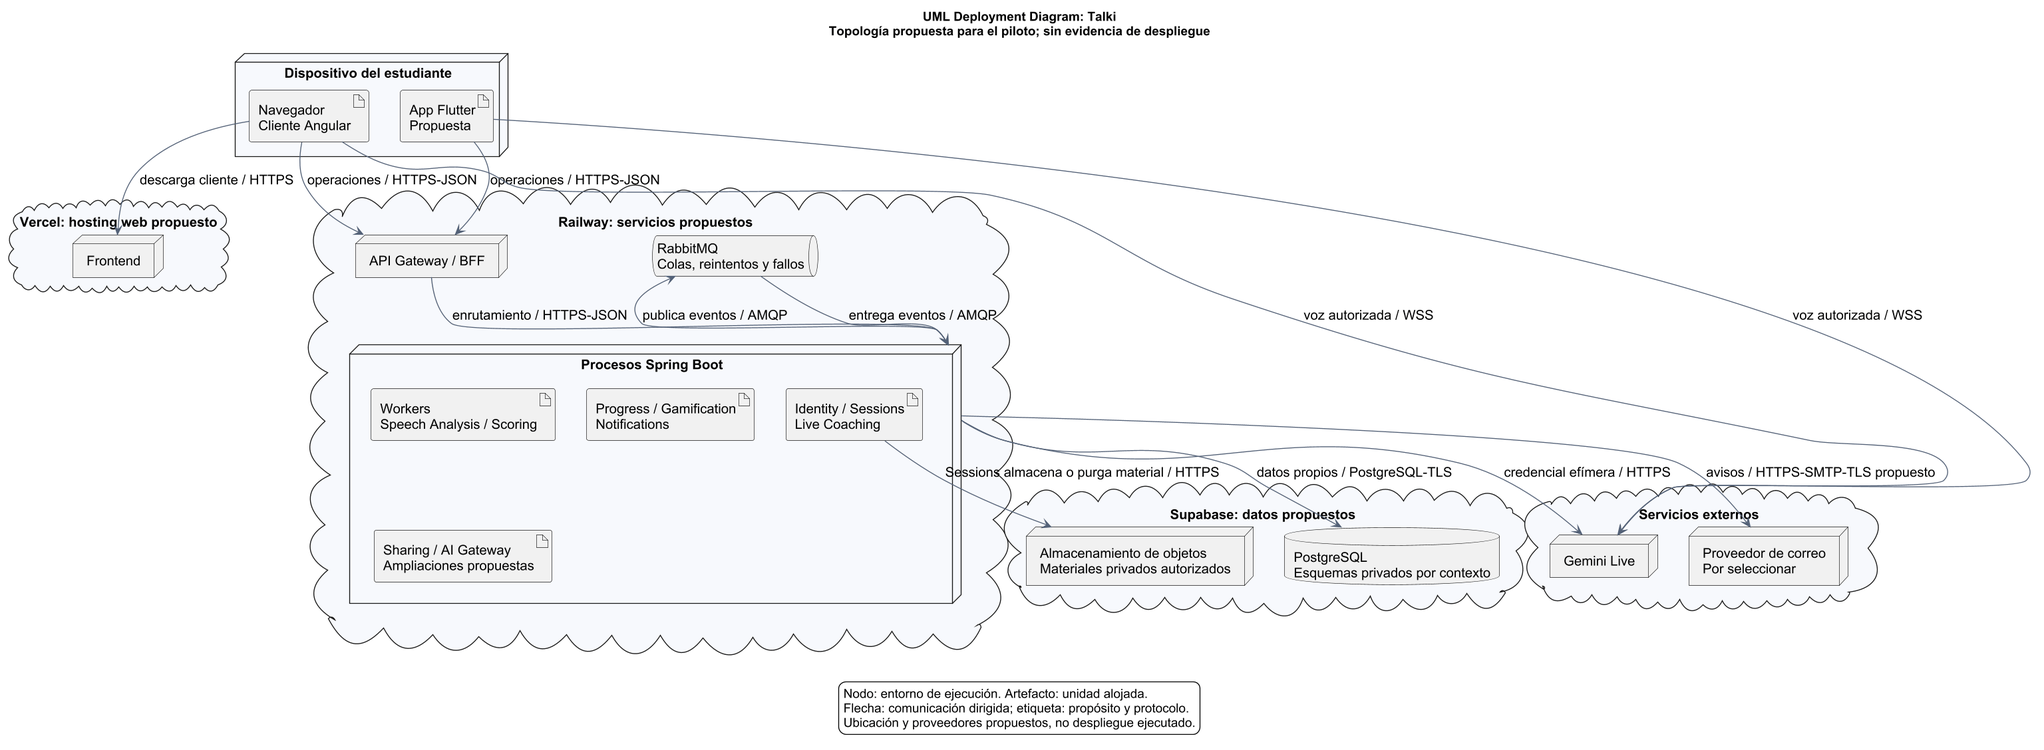
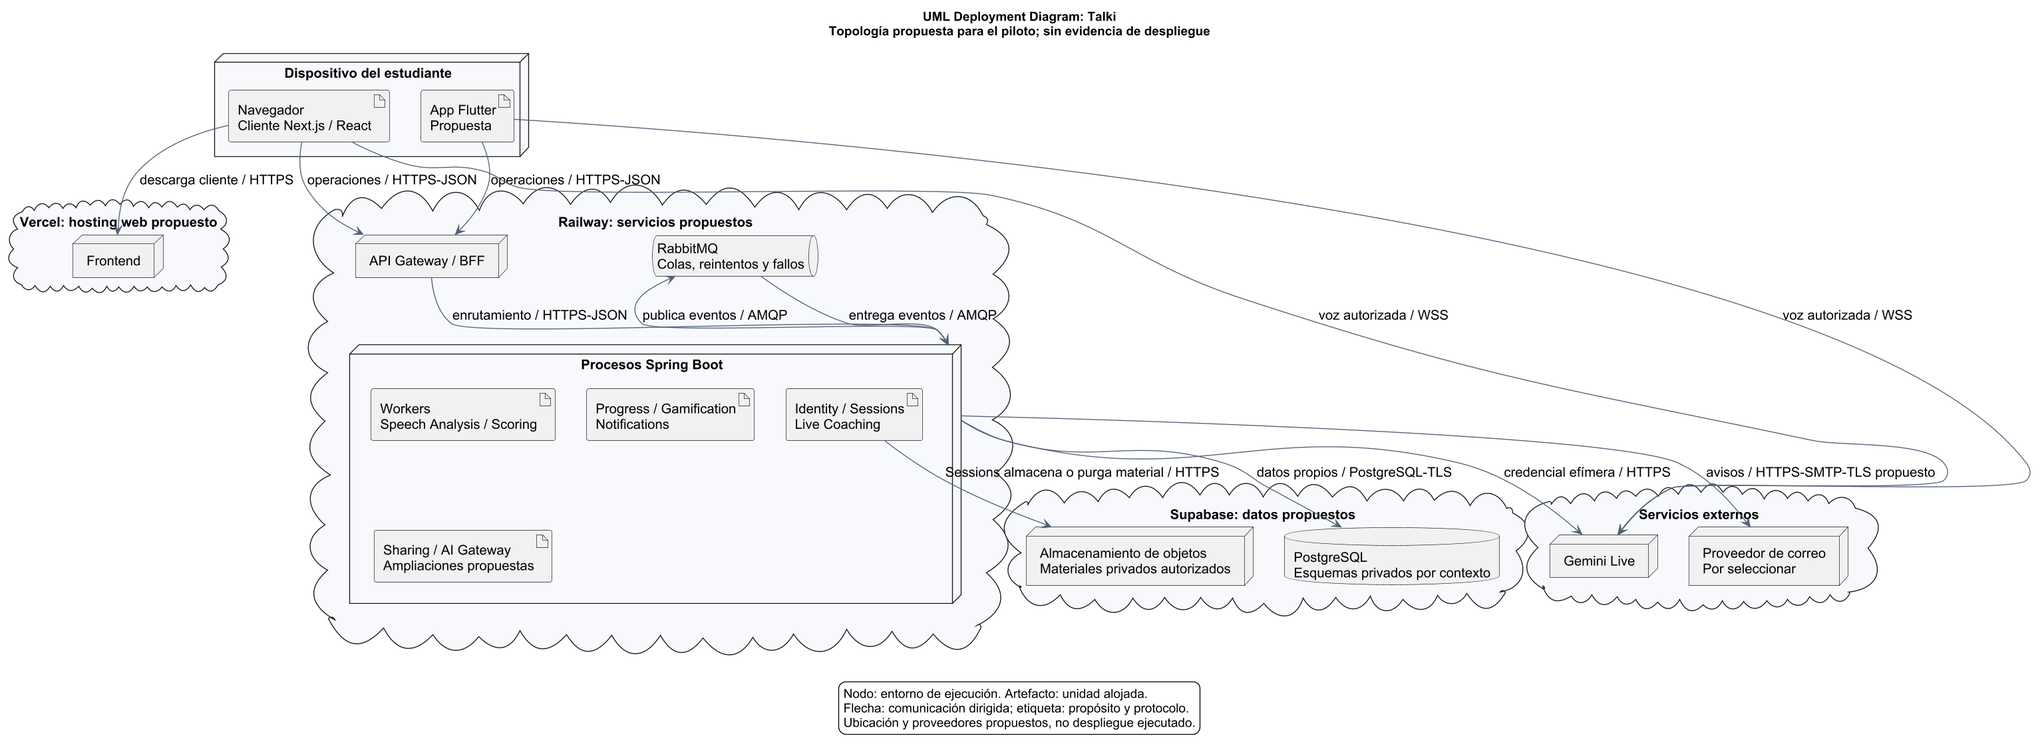
docs(tb2): adopt Next React stack and retire migration plan

diff --git a/docs/tb2/sprint-1-plan.md b/docs/tb2/sprint-1-plan.md
@@ -37,7 +37,7 @@ La reunión de planning se realizó el **28 de octubre de 2026, de 20:00 a 21:00
 | progress-service | Resumen del progreso a partir de evaluaciones. | SB1-05. |
 | gamification-service | Rachas y logros según sesiones válidas. | SB1-05. |
 | notification-service | Consumo de eventos de evaluación/logro y aviso disponible. | SB1-05. No se presume un canal de correo configurado. |
-| Cliente web, landing y BFF | Pantallas, sesión del navegador y consumo de APIs. | SB1-02, SB1-03 y SB1-06; G-WEB si se requiere adecuación. |
+| Cliente web, landing y BFF | Pantallas, sesión del navegador y consumo de APIs. | SB1-02, SB1-03 y SB1-06 sobre Next.js/React. |
 | RabbitMQ, persistencia y ambiente | Integración entre servicios y ejecución reproducible/desplegada. | SB1-01 y SB1-07. |
 
 **Reparto de capacidad confirmado por el Team Leader el 30/10/2026.** Un coordinador por PBI organiza el cierre; las tareas de 7.2.1.2 indican quién hace cada parte. Las horas de apoyo se contabilizan a su responsable, no se suman de nuevo al coordinador.
@@ -62,7 +62,7 @@ Los SP de cada PBI usan la escala 1, 2, 3, 5 y 8 para estimar el **trabajo que q
 | 04/11–06/11 | Análisis/feedback, cliente integrado, progreso, logros y aceptación. | Reporte trazable y pruebas del recorrido; integración por eventos comprobada. |
 | 07/11–08/11 | Despliegue, validación con ambos segmentos, matriz de evidencias, review y retrospectiva. | URLs y capturas actuales; registros reales de validación; balance de terminado/pendiente. |
 
-La coordinación propuesta comprende seis sincronizaciones de diez minutos y una sesión de review/retrospectiva de sesenta minutos por integrante: dos horas en total. Las diez horas de reserva del equipo absorben incidencias pequeñas; no cubren una migración completa de tecnología o una ampliación de alcance de decenas de horas.
+La coordinación propuesta comprende seis sincronizaciones de diez minutos y una sesión de review/retrospectiva de sesenta minutos por integrante: dos horas en total. Las diez horas de reserva del equipo absorben incidencias pequeñas; no cubren ampliaciones de alcance de decenas de horas.
 
 **Definition of Ready.** Antes de iniciar una tarea deben existir su criterio de aceptación, responsable, dependencia resuelta, repositorio/commit de base e insumos de prueba. Si requiere credenciales, presupuesto cloud, acceso al proveedor o participantes, se registra el bloqueo concreto. Nunca se incluye un secreto en el tablero o en la captura.
 
@@ -97,7 +97,7 @@ El backlog sustituye las diez tareas genéricas iniciales por **ocho PBIs y 24 t
 | SB1-03 — Integración pendiente | Crear sesión 201, modos 200; finalizar DRAFT dio 500 y token sin clave dio 503 esperado. | Cerrar estados/consentimiento, voz configurada, correlación y cierre sin duplicados. |
 | SB1-04 — Base disponible | 11 unitarias de detección de muletillas y 33 de scoring aprobadas; contratos de eventos presentes. | Comprobar recorrido asíncrono, consulta de feedback, errores, duplicados y aceptación BDD. |
 | SB1-05 — Base disponible | 9 unitarias de progreso, 13 de gamificación y 7 de notificaciones; consultas iniciales de progreso/racha 200. | Demostrar actualización real por evento válido y que el duplicado no repite efectos. |
-| SB1-06 — Cliente/prototipo disponibles | Compilación Next.js aprobada; galería y prototipo públicos dieron 200. | Integrar el recorrido real, ajustar landing/errores y resolver conformidad del framework. |
+| SB1-06 — Cliente/prototipo disponibles | Compilación Next.js aprobada; galería y prototipo públicos dieron 200. | Integrar el recorrido real en Next.js/React y ajustar landing, errores y evidencias. |
 | SB1-07 — Bloqueado por despliegue | En la comprobación del 30/10, frontend histórico 402 y 16 rutas Railway 404. | Acceso a recursos, perfiles/persistencia, publicación y verificación del ambiente efectivo. |
 | SB1-08 — Protocolo listo | Guion de validación y registro de seis participantes preparado; sin sesiones o resultados acreditados. | Reclutar/aplicar a ambos segmentos y registrar observaciones y heurísticas reales. |
 
@@ -106,7 +106,7 @@ El backlog sustituye las diez tareas genéricas iniciales por **ocho PBIs y 24 t
 | Tarea | Responsable confirmado | Horas | Dependencias | Criterio de aceptación | Estado |
 | --- | --- | ---: | --- | --- | --- |
 | **SB1-01-A** Cerrar el runbook de arranque y configuración | Alejandro | 3 | Ninguna | Un clon limpio puede compilar con JDK 17, iniciar un único RabbitMQ y los ocho servicios; el runbook separa H2 local de persistencia pública y no expone secretos. | Por hacer |
-| **SB1-01-B** Registrar decisiones de tecnología y alcance | Eduardo | 2 | Ninguna | Matriz de enunciado frente al stack real; decisión Angular/Vue o autorización adjunta. Si sigue abierta, se registra bloqueo de conformidad y no se renombra Next.js. | Por hacer |
+| **SB1-01-B** Registrar decisiones de tecnología y alcance | Eduardo | 2 | Ninguna | Registrar Next.js/React/TypeScript, Tailwind y shadcn como stack elegido; relacionar versiones y BFF con los archivos del cliente. Conservar la fuente académica original y la decisión del equipo sin atribuir autorización docente no registrada. | Por hacer |
 | **SB1-01-C** Versionar contrato y evidencia del entorno | Kevin | 3 | SB1-01-A | URLs/puertos, commit base, diagrama de despliegue ejecutable y ocho contratos OpenAPI coherentes; enlaces de las evidencias en el informe. | Por hacer |
 
 **SB1-02 — Identidad, acceso y aislamiento de sesiones.** Servicios: identity-service, session-service, BFF del cliente.
@@ -146,7 +146,7 @@ El backlog sustituye las diez tareas genéricas iniciales por **ocho PBIs y 24 t
 | Tarea | Responsable confirmado | Horas | Dependencias | Criterio de aceptación | Estado |
 | --- | --- | ---: | --- | --- | --- |
 | **SB1-06-A** Actualizar landing y estados vacíos | Eduardo | 4 | SB1-01-B | Beneficios y planes describen disponibilidad real; sin testimonios autorizados se muestra estado vacío. Contacto y videos identifican qué funciona y qué está pendiente. | Por hacer |
-| **SB1-06-B** Integrar las pantallas con servicios reales | Eduardo | 4 | SB1-02-C, SB1-03-C, SB1-04-B | Acceso, preparación, práctica, reporte e historial consumen la base elegida; simulaciones y capturas de referencia están diferenciadas. La migración completa de framework es una rama condicional estimada aparte. | Por hacer |
+| **SB1-06-B** Integrar las pantallas con servicios reales | Eduardo | 4 | SB1-02-C, SB1-03-C, SB1-04-B | Acceso, preparación, práctica, reporte e historial consumen la base elegida; simulaciones y capturas de referencia están diferenciadas. Se reutiliza el cliente Next.js/React y se comprueba su integración; no se incluye una migración de framework. | Por hacer |
 | **SB1-06-C** Comprobar usabilidad técnica web y responsive | Eduardo | 2 | SB1-06-B | Recorrido con teclado, foco, etiquetas, errores y vista móvil comprobado; responsive no se presenta como app nativa. Capturas corresponden al commit probado. | Por hacer |
 
 **SB1-07 — Despliegue y evidencias de la primera versión.** Servicios: Ocho servicios backend, RabbitMQ, Persistencia, Cliente web.
@@ -171,19 +171,18 @@ El backlog sustituye las diez tareas genéricas iniciales por **ocho PBIs y 24 t
 
 ![Tablero de Sprint 1 con PBIs, responsables y horas](../../assets/planning/sprint-1/github-project-items-20261030.jpg)
 
-*Figura: Tablero real de revisión del periodo 202620. Todos los PBIs están pendientes de ejecución/aceptación; la captura precede a la confirmación posterior de las asignaciones y las 20 h por integrante por el Team Leader el mismo 30/10/2026.*
+*Figura: Tablero real de revisión del periodo 202620. Todos los PBIs están pendientes de ejecución/aceptación; la captura muestra también G-WEB antes de su retiro posterior por decisión del equipo. La captura precede a la confirmación posterior de las asignaciones y las 20 h por integrante por el Team Leader el mismo 30/10/2026.*
 
 ![Columnas de horas, puntos y fase del tablero](../../assets/planning/sprint-1/github-project-20261030.jpg)
 
-*Figura: Continuación horizontal del mismo tablero, con puntos y separación de paquetes condicionales. Las horas condicionales no forman parte del total de 80 h del Sprint 1.*
+*Figura: Continuación horizontal del mismo tablero, con puntos y separación de paquetes condicionales. Las horas condicionales no forman parte del total de 80 h del Sprint 1. G-WEB aparece en esta captura anterior y fue retirado al confirmar Next.js/React; el snapshot del tablero registra el estado actualizado.*
 
 **Herramienta de control del Sprint 1.** El equipo utilizará **GitHub Projects**, cuya admisión para esta entrega fue confirmada por el Team Leader el 30/10/2026. El tablero enlazado es la herramienta elegida para tareas, responsables, horas, estados y evidencias. La lista general de herramientas de la página 32 se conserva como fuente del enunciado; la confirmación del equipo cierra el pendiente de selección/aceptación, sin requerir traslado a Trello, Jira, YouTrack o Pivotal. El [CSV de tareas](../../assets/planning/sprint-1/sprint-backlog.csv) conserva una copia editable de las tareas del tablero.
 
-**Paquetes que cambian la capacidad necesaria.** La propuesta no oculta trabajo obligatorio dentro de estimaciones insuficientes. Si se activan G-WEB y G-PRIV, se requieren **80 h adicionales de trabajo estimado**, antes de coordinación/reserva; el total de entrega pasa de 80 a 160 h y debe cambiar el plazo, la disponibilidad o el alcance de la demostración. Las 20 h confirmadas por integrante no cubren ese escenario.
+**Paquetes que cambian la capacidad necesaria.** Se conserva Next.js/React y se retira G-WEB de la planificación activa; sus 48 h estimadas no se suman al sprint ni se cuentan como trabajo terminado. G-PRIV requiere **32 h adicionales estimadas** antes de un piloto con datos reales: el trabajo de entrega pasaría de 80 a 112 h, más coordinación/reserva, y requeriría replanificar capacidad o plazo. G-MEDIA sigue diferido.
 
 | Paquete | Activación / objetivo | Responsable de coordinación | Estimación adicional | Condición de cierre |
 | --- | --- | --- | ---: | --- |
-| G-WEB | Adecuar el cliente a Angular o Vue si no se obtiene autorización expresa para Next.js. | Eduardo; apoyo de Kevin y Alejandro. | 48 h; rango inicial 40–64 h, alta incertidumbre. | Pantallas, acceso/BFF seguro, APIs, errores, responsive y pruebas en el framework conforme. La decisión se toma en SB1-01-B. |
 | G-PRIV | Completar US27, US33 y TS06 antes de un piloto que procese datos personales reales. | Werner; apoyo de Manuel y Alejandro. | 32 h iniciales, alta incertidumbre. | Exportación, revocación, bloqueo, purga por contexto, confirmaciones, reintento, auditoría y pruebas. Mientras falte, limitar el ambiente a fixtures/acceso controlado. |
 | G-MEDIA | Reactivar grabaciones y publicaciones cuando existan producto y testimonios reales. | Equipo. | 12 h orientativas de preparación/edición; reestimar según material. | Navegación, validación y About Product/Team según el enunciado. Los videos diferidos no se marcan publicados. |
 

diff --git a/docs/tb2/pendientes-informe.md b/docs/tb2/pendientes-informe.md
@@ -17,7 +17,7 @@ Fuentes: enunciado del curso obtenido con Campus, páginas 34–35, y comentario
 - [x] **7.2.1.6:** métodos, rutas, parámetros, ejemplo de solicitud y ocho documentos OpenAPI locales disponibles.
 - [x] **7.3.1:** diseño de validación, consentimiento, tareas, métricas y preguntas de cierre preparados.
 - [x] **7.4:** introducción y guion del About Product redactados; publicación pendiente por indicación del equipo.
-- [x] **Registro de versiones y bibliografía:** autoría editorial aclarada, versión 1.47 y referencias de los cinco repositorios de código añadidas.
+- [x] **Registro de versiones y bibliografía:** autoría editorial aclarada, versión 1.48 y referencias de los cinco repositorios de código añadidas.
 - [x] **Conclusiones, recomendaciones y anexos:** avance TB2 incorporado, con límites de lo comprobado.
 
 ## Registros que faltan completar dentro del informe
@@ -34,7 +34,7 @@ Fuentes: enunciado del curso obtenido con Campus, páginas 34–35, y comentario
 
 ## Evidencia técnica que falta incorporar
 
-- [ ] **7.1.1 — Entorno y tecnología.** Registrar cómo se resuelve Next.js frente a Angular/Vue indicados en el enunciado: adecuación efectuada o autorización docente documentada. Mantener la distinción entre diseño móvil responsivo y una aplicación móvil implementada.
+- [x] **7.1.1 — Stack documentado y elegido.** Next.js/React/TypeScript con Tailwind/shadcn; servicios Java/Spring Boot. La selección fue confirmada por el Team Leader el 30/10/2026; la migración G-WEB se retiró del plan. La fuente académica original se conserva y no se presenta como autorización docente. Responsive web y móvil propuesto permanecen diferenciados.
 - [ ] **7.1.4 y 7.2.1.7 — Despliegue.** Incorporar ambiente activo, configuración sin secretos, pasos ejecutados, commit desplegado, URLs funcionales y capturas actuales. El diagnóstico existente es 402 en el cliente y 404 en las 16 rutas históricas de backend consultadas; no demuestra una primera versión operativa.
 - [ ] **7.2.1.4 — Testing.** Añadir pruebas ejecutadas de integración y aceptación BDD, con features/steps, comandos, commits y resultados. Las 133 unitarias ya están documentadas; no se convierten en evidencia de aceptación, rendimiento, privacidad o cobertura porcentual.
 - [ ] **7.2.1.5 — Ejecución.** Incorporar capturas y explicación del recorrido integrado real, desde acceso hasta consulta del resultado. Registrar la transición válida de estados y la respuesta controlada al estado inválido. La comprobación actual no cubre voz real ni el cierre completo.
@@ -61,4 +61,4 @@ Los registros y el análisis de validación también requieren que las sesiones 
 
 **Avance documental 1.46 en README.md:** correspondencia de arquitectura, procedimiento local, respuestas HTTP observadas, historial actual y conclusiones completados con fuentes verificables.
 
-**Orden de trabajo restante:** resolver la decisión tecnológica, ejecutar y evidenciar 7.1–7.2; incorporar aportes reales del equipo; realizar entrevistas y completar resultados de validación cuando se retomen. Actualizar el README cuando cambien esas evidencias. Las referencias audiovisuales acordadas pueden permanecer identificadas como pendientes durante esta revisión, sin marcar el entregable académico completo como terminado.
+**Orden de trabajo restante:** ejecutar y evidenciar 7.1–7.2; incorporar aportes reales del equipo; realizar entrevistas y completar resultados de validación cuando se retomen. Actualizar el README cuando cambien esas evidencias. Las referencias audiovisuales acordadas pueden permanecer identificadas como pendientes durante esta revisión, sin marcar el entregable académico completo como terminado.

diff --git a/docs/tb2/entorno-y-tecnologia.md b/docs/tb2/entorno-y-tecnologia.md
@@ -1,6 +1,6 @@
 # Entorno y tecnología de Talki
 
-**Qué significa entorno y tecnología en Talki.** La tecnología identifica con qué está construido cada componente. El entorno define dónde y con qué configuración se ejecuta ese código: equipo local, ambiente de pruebas o ambiente publicado. Cambiar una URL o una variable de entorno no convierte Next.js en Angular ni Vue.
+**Qué significa entorno y tecnología en Talki.** La tecnología identifica con qué está construido cada componente. El entorno define dónde y con qué configuración se ejecuta ese código: equipo local, ambiente de pruebas o ambiente publicado. El entorno local, de integración o publicado utiliza el mismo stack, con su configuración correspondiente.
 
 | Concepto | Ejemplo concreto en Talki | Qué documentamos |
 | --- | --- | --- |
@@ -13,8 +13,10 @@
 | Entorno de integración | Se ejecutan juntos los componentes necesarios para comprobar el recorrido. | Mismo ID de sesión, intercambios HTTP/eventos y resultados de aceptación. |
 | Entorno publicado | Los productos están disponibles por HTTPS en recursos cloud. | URLs actuales, commit, variables externas y almacenamiento persistente, según el diseño de despliegue. |
 
-**Diferencia con el enunciado.** La página 32 admite Java/Spring Boot para servicios: esa parte de la base coincide. Para la aplicación web enumera Angular o Vue y bibliotecas de componentes de Material Design: Angular Material/PrimeNG o PrimeVue/Vuetify, según el framework. La base heredada usa Next.js/React con Tailwind/shadcn, por lo que la conformidad de la aplicación web debe resolverse mediante una adecuación real o autorización expresa del docente. **Nest Framework**, permitido como alternativa de backend, y **Next.js**, usado por el cliente heredado, son tecnologías distintas. El diseño responsive del navegador tampoco acredita una aplicación móvil nativa.
+**Decisión tecnológica del proyecto.** El Team Leader confirmó el 30/10/2026 conservar **Next.js 16.2.9, React 19.2.4 y TypeScript**, con **Tailwind CSS 4 y shadcn**, para el cliente web. Se reutilizan sus pantallas y BFF y se concentra el trabajo en integración, errores, pruebas y despliegue. Los ocho servicios se mantienen en Java 17/Spring Boot 3.2.5. La aplicación móvil Flutter continúa como ampliación propuesta; la vista responsive es parte del cliente web.
 
-El plan trata esta diferencia como una decisión de alcance en SB1-01-B y, si se requiere adecuación, como el paquete adicional G-WEB. No se rehacen automáticamente los ocho servicios Java por cambiar el framework de las pantallas. Por separado, H2 sirve para las pruebas locales; la persistencia del ambiente publicado se configura y comprueba en SB1-07.
+SB1-01-B documenta esta selección y comprueba su correspondencia con los archivos del cliente; SB1-06 integra el recorrido con los servicios. La migración a otro framework se retira del plan por decisión del equipo. H2 se utiliza en pruebas locales; la persistencia del ambiente publicado se configura y comprueba en SB1-07.
+
+**Referencia del enunciado.** La sección Tecnología de la página 32 enumera Angular/Vue para Web Applications. Next.js/React es la decisión actual del equipo; esta edición del informe no modifica el documento del curso ni acredita autorización docente para esa diferencia. El [registro de tecnologías](../../assets/planning/sprint-1/technology-requirements.json) conserva el texto de origen y la decisión del proyecto.
 
 Fuente: archivos del código reutilizado y página 32 de Trabajo Final_1ASI0728_202620.pdf, obtenido con Campus.

diff --git a/docs/tb2/checklist.md b/docs/tb2/checklist.md
@@ -187,7 +187,7 @@ Una casilla marcada significa que hay contenido documental en el repositorio. No
 - [x] **6.4.4. Applications User Flow Diagrams** — contenido disponible en el informe; conservar y revisar si cambia la implementación.
 - [x] **6.5. Applications Prototyping** — contenido disponible en el informe; conservar y revisar si cambia la implementación.
 - [ ] **7.1. Software Configuration Management** — SCM documentado con fuentes verificadas.
-- [ ] **7.1.1. Software Development Environment Configuration** — Versiones comprobadas; resolver Next.js frente a Angular/Vue exigidos y aplicación móvil si corresponde.
+- [x] **7.1.1. Software Development Environment Configuration** — Stack elegido Next.js/React/TypeScript y Java/Spring Boot documentado con versiones; decisión del equipo diferenciada del enunciado original.
 - [ ] **7.1.2. Source Code Management** — Cinco instantáneas de código, SHA y procedencia; GitHub Projects confirmado como admitido y elegido; incorporar aportes propios del periodo actual.
 - [x] **7.1.3. Source Code Style Guide & Conventions** — Convenciones descritas; no declarar quality gates o cobertura no medidos.
 - [ ] **7.1.4. Software Deployment Configuration** — Configuración y reproducción local documentadas; recuperar ambiente público persistente.
@@ -209,7 +209,7 @@ Una casilla marcada significa que hay contenido documental en el repositorio. No
 
 ## Cierres y archivos de entrega
 
-- [x] Registro de versiones actualizado a 1.47 con descripción de la adaptación.
+- [x] Registro de versiones actualizado a 1.48 con descripción de la adaptación.
 - [x] Collaboration Insights y Student Outcome ampliados, distinguiendo acciones documentadas y revisión pendiente.
 - [x] Avance de conclusiones, recomendaciones, bibliografía y anexos actualizado para TB2.
 - [ ] About Team: completar evidencia de proceso real, retrospectiva, testimonios y publicación Stream/YouTube; el enlace previo acredita presentación individual.
@@ -223,7 +223,7 @@ Una casilla marcada significa que hay contenido documental en el repositorio. No
 
 ## Orden de cierre recomendado
 
-1. Resolver el despliegue y la adecuación del cliente web; ejecutar recorrido integrado, autorización y privacidad.
+1. Resolver el despliegue de Next.js/React y los servicios; ejecutar recorrido integrado, autorización y privacidad.
 2. Cerrar el calendario del sprint y registrar aportes/revisiones de los cinco integrantes; reunión, capacidad, responsables y GitHub Projects ya confirmados.
 3. Ejecutar aceptación BDD y las pruebas de integración que faltan; registrar resultados sin convertir propuestas en éxitos.
 4. Aplicar validación por segmento y completar análisis/heurísticas; grabaciones pendientes según lo acordado.

diff --git a/deliverables/tb2/README.md b/deliverables/tb2/README.md
@@ -4,10 +4,10 @@ La fuente acumulativa es el [informe del repositorio](../../README.md). El alcan
 
 | Archivo | Contenido y estado |
 | --- | --- |
-| [Complemento TB2 Word](Complemento-TB2.docx) / [PDF](Complemento-TB2.pdf) | Fuentes, correcciones del parcial y capítulo VII actualizado. Es un complemento de 14 páginas de la adaptación 1.42; no reemplaza los capítulos I–VI del informe acumulativo. Las versiones 1.43–1.47 del README amplían los commits, referencias y definición de Planning/Backlog; este complemento aún no incorpora esa revisión. |
+| [Complemento TB2 Word](Complemento-TB2.docx) / [PDF](Complemento-TB2.pdf) | Fuentes, correcciones del parcial y capítulo VII actualizado. Es un complemento de 14 páginas de la adaptación 1.42; no reemplaza los capítulos I–VI del informe acumulativo. Las versiones 1.43–1.48 del README amplían los commits, referencias y definición de Planning/Backlog; este complemento aún no incorpora esa revisión. |
 | [Keynote PowerPoint](Talki-TB2-Keynote.pptx) / [PDF](Talki-TB2-Keynote.pdf) | Presentación de avance de 11 láminas, con foto, nombres, apellidos y carrera de los cinco integrantes. Incluye evidencias verificadas y pendientes. |
 | [Participación Word](Participacion-TB2.docx) / [PDF](Participacion-TB2.pdf) | Formato editable para que el Team Leader confirme responsabilidades, cumplimiento y notas de TB2. No está evaluado. |
 
-El paquete todavía no está cerrado para Blackboard. Deben resolverse despliegue y adecuación del cliente al enunciado; completar aceptación, calendario del sprint y aportes propios; aplicar validación; publicar videos y completar la evaluación de participación. El contenido vigente se mantiene íntegramente en el README; la exportación a Word/PDF queda fuera del trabajo actual por indicación del equipo. Los videos de validación y About Product permanecen pendientes por indicación del equipo.
+El paquete todavía no está cerrado para Blackboard. Deben resolverse despliegue e integración del cliente Next.js/React; completar aceptación, calendario del sprint y aportes propios; aplicar validación; publicar videos y completar la evaluación de participación. El contenido vigente se mantiene íntegramente en el README; la exportación a Word/PDF queda fuera del trabajo actual por indicación del equipo. Los videos de validación y About Product permanecen pendientes por indicación del equipo.
 
 Las pruebas unitarias se ejecutaron con JDK 17 y las instantáneas reutilizadas mantienen sus commits originales del periodo 202601. El caso HTTP de finalización desde DRAFT devolvió 500; no se declara el recorrido completo como aprobado. Los archivos de ejecución y OpenAPI están en `assets/evidence/tb2/`.
